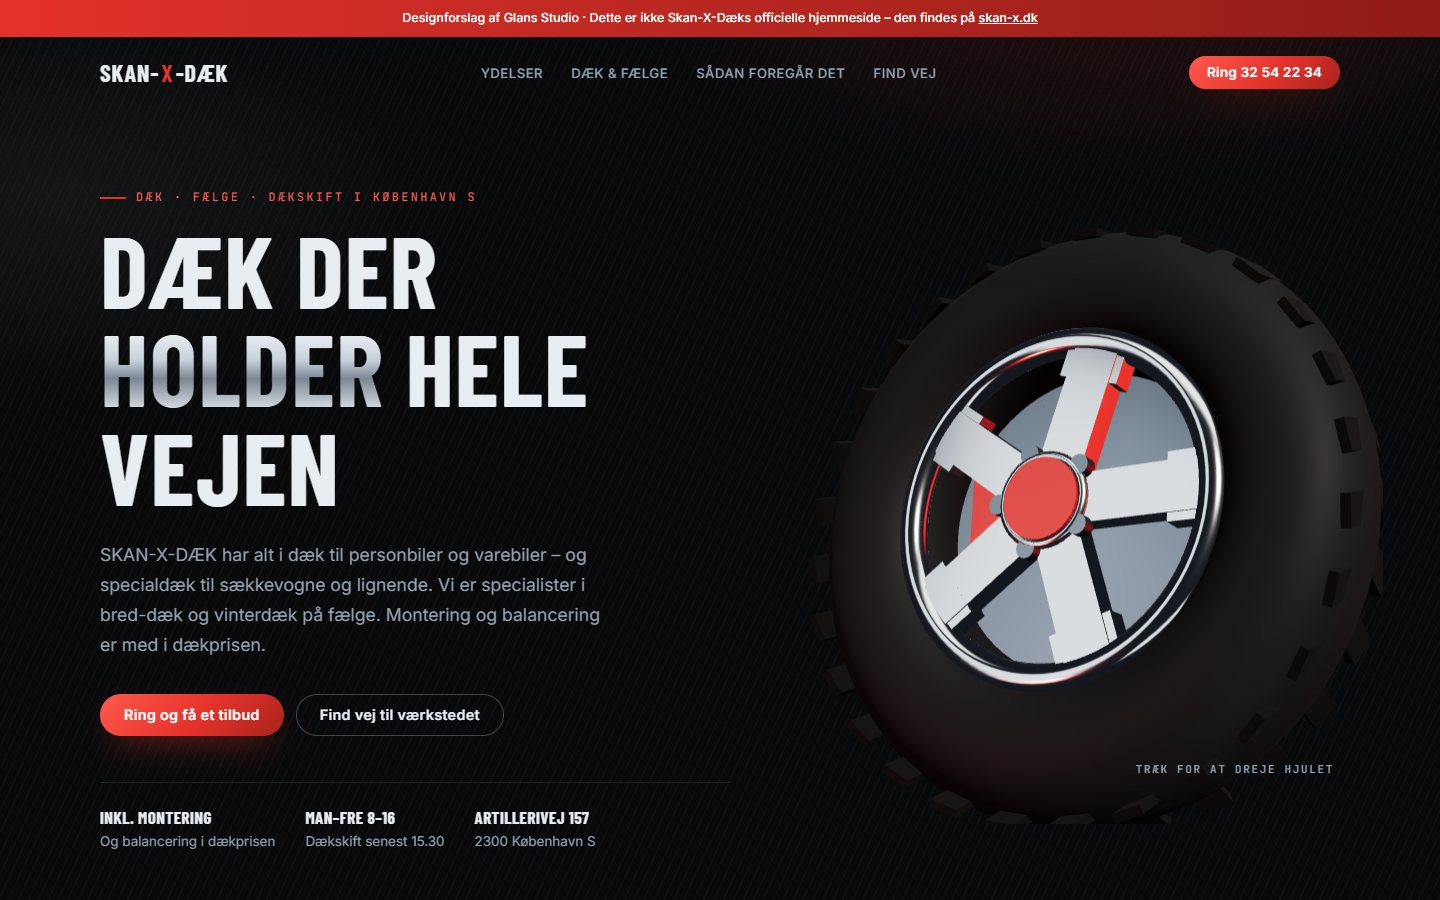
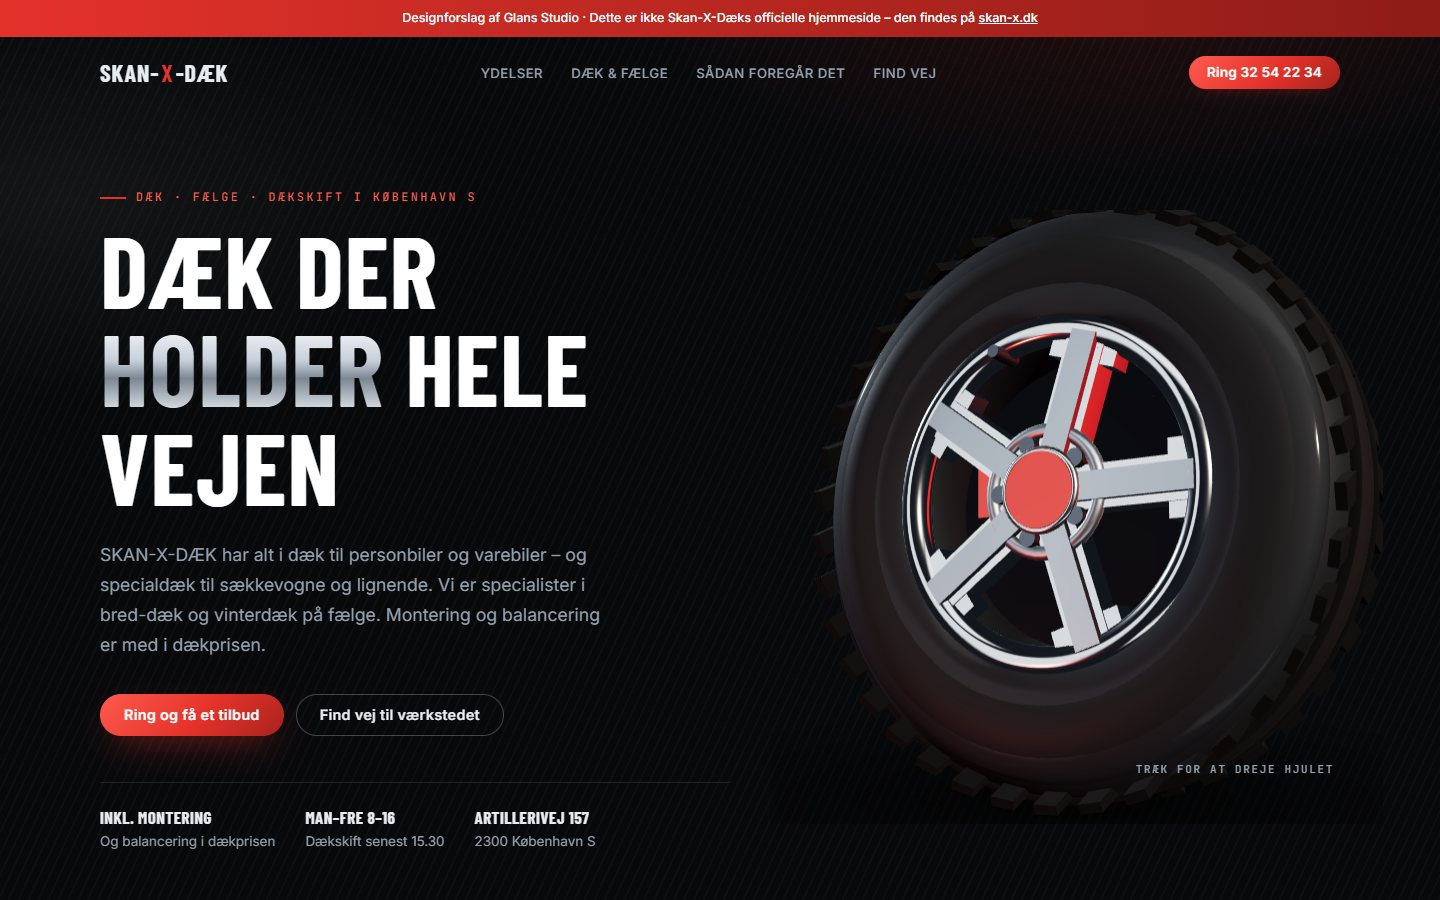
Skan-X-Dæk: storleksval, bokning och verkligare 3D
Claude-Session: https://claude.ai/code/session_01Hfab6hAnitsGBovwAp8y8N

diff --git a/sidor/skan-x-daek/index.html b/sidor/skan-x-daek/index.html
@@ -168,6 +168,42 @@
     .karta, .karta iframe { min-height: 320px; }
   }
   @media (prefers-reduced-motion: reduce) { html { scroll-behavior: auto; } .visas { opacity: 1; transform: none; transition: none; } }
+
+  /* ===== Svart, vitt och rött ===== */
+  :root { --vit: #FFFFFF; }
+  h1, h2, h3 { color: var(--vit); }
+  .sektion.ljus { background: var(--vit); color: #0B0C0E; }
+  .sektion.ljus h2, .sektion.ljus h3 { color: #0B0C0E; }
+  .sektion.ljus .huvud > p, .sektion.ljus p { color: #4A525C; }
+  .sektion.ljus .etikett { color: var(--rod); }
+  .sektion.ljus .etikett::before { background: var(--rod); }
+  .sektion.ljus .steg li { border-color: rgba(11, 12, 14, .12); background: #F4F6F8; }
+  .sektion.ljus .steg li::before { color: var(--rod); }
+  .sektion.ljus .krom-text { background: linear-gradient(180deg, #2B3037, #0B0C0E); -webkit-background-clip: text; background-clip: text; color: transparent; }
+
+  /* ===== Välj däckstorlek ===== */
+  .valj { display: grid; gap: 14px; margin: 0 0 26px; padding: 24px 26px; border: 1px solid var(--linje-stark); border-radius: var(--radie); background: linear-gradient(135deg, rgba(228, 50, 43, .12), transparent 60%), var(--panel); }
+  .valj-rad { display: flex; flex-wrap: wrap; gap: 12px; align-items: center; }
+  .valj label { font: 500 .74rem/1 var(--mono); letter-spacing: .16em; text-transform: uppercase; color: var(--dampad); }
+  .valj select { min-width: 190px; padding: 13px 16px; border: 1px solid var(--linje-stark); border-radius: 10px; background: #0B0C0E; color: var(--vit); font-family: var(--mono); }
+  .valj select:focus { border-color: var(--rod-ljus); outline: none; }
+  .valj-svar { margin: 0; font-size: .95rem; color: var(--dampad); }
+  .valj-svar b { color: var(--vit); font-family: var(--mono); font-weight: 500; }
+
+  /* ===== Boka tid ===== */
+  .bok-falt { display: grid; gap: 12px; margin-top: 4px; }
+  .bok-falt label { display: grid; gap: 6px; font-size: .84rem; color: var(--dampad); }
+  .bok-falt input, .bok-falt select { padding: 12px 14px; border: 1px solid var(--linje-stark); border-radius: 10px; background: #0B0C0E; color: var(--vit); }
+  .bok-falt input:focus, .bok-falt select:focus { border-color: var(--rod-ljus); outline: none; }
+  .bok-not { margin: 10px 0 0; font-size: .8rem; color: var(--dampad); }
+
+  @media (max-width: 600px) {
+    .valj { padding: 20px 18px; }
+    .valj select { width: 100%; }
+  }
+
+  /* Dämpat sken på menyknappen, så den inte lyser mot vita avsnitt */
+  .nav .knapp { box-shadow: 0 8px 18px -12px rgba(228, 50, 43, .55); }
 </style>
 </head>
 <body>
@@ -265,6 +301,17 @@
       </div>
       <div class="storlek-grid">
         <div class="visas">
+          <div class="valj">
+            <div class="valj-rad">
+              <label for="valjStorlek" data-edit>Vælg din dækstørrelse</label>
+              <select id="valjStorlek" aria-describedby="valjSvar">
+                <option value="">Vælg størrelse …</option>
+              </select>
+              <a class="knapp liten" id="valjRing" href="tel:+4532542234" data-edit>Ring om pris</a>
+              <a class="knapp liten spok" id="valjMail" href="mailto:karsten@skan-x-daek.dk" data-edit>Skriv efter pris</a>
+            </div>
+            <p class="valj-svar" id="valjSvar" data-edit>Vi giver pris på telefon eller mail – vælg størrelsen først, så er den skrevet ind i mailen.</p>
+          </div>
           <ul class="storlekar">
             <li>155/65 R14</li><li>165/70 R14</li><li>175/65 R14</li><li>185/60 R14</li>
             <li>185/60 R15</li><li>185/65 R14</li><li>185/65 R15</li><li>195/50 R15</li>
@@ -283,7 +330,7 @@
     </div>
   </section>
 
-  <section class="sektion mork" id="saadan">
+  <section class="sektion ljus" id="saadan">
     <div class="ram">
       <div class="huvud visas">
         <div><p class="etikett" data-edit>Sådan foregår det</p><h2 data-edit>Fra opkald til <span class="krom-text">færdigt skift</span></h2></div>
@@ -323,6 +370,17 @@
               <li><span data-edit>Dækskift senest</span><b data-edit>15.30</b></li>
               <li><span data-edit>Lørdag og søndag</span><b data-edit>Lukket</b></li>
             </ul>
+          </div>
+          <div class="info-kort visas">
+            <h3 data-edit>Book tid til dækskift</h3>
+            <div class="bok-falt">
+              <label><span data-edit>Dit navn</span><input id="bokNavn" autocomplete="name" placeholder="Navn"></label>
+              <label><span data-edit>Telefon</span><input id="bokTlf" autocomplete="tel" inputmode="tel" placeholder="Telefonnummer"></label>
+              <label><span data-edit>Dækstørrelse</span><select id="bokStorlek"><option value="">Vælg størrelse …</option></select></label>
+              <label><span data-edit>Ønsket dag</span><input id="bokDag" type="date"></label>
+              <button class="knapp" type="button" id="bokKnapp" data-edit>Send som mail</button>
+            </div>
+            <p class="bok-not" data-edit>Knappen åbner dit mailprogram med teksten færdig. Vi bekræfter tiden, når vi har set den.</p>
           </div>
           <div class="info-kort visas">
             <h3 data-edit>Kontakt</h3>
@@ -484,6 +542,61 @@
     });
   }
 
+  /* ---------- Vælg dækstørrelse og book tid (åbner mail, ingen server) ---------- */
+  const MAIL = 'karsten@skan-x-daek.dk';
+  const NL = String.fromCharCode(10);
+
+  const storlekar = () => $$('.storlekar li').map(li => li.textContent.trim()).filter(Boolean);
+
+  function fyllValjare() {
+    const lista = storlekar();
+    ['#valjStorlek', '#bokStorlek'].forEach(sel => {
+      const falt = $(sel);
+      if (!falt) return;
+      lista.forEach(s => {
+        const val = document.createElement('option');
+        val.value = s;
+        val.textContent = s;
+        falt.appendChild(val);
+      });
+    });
+  }
+
+  const mailto = (amne, rader) => 'mailto:' + MAIL + '?subject=' + encodeURIComponent(amne) + '&body=' + encodeURIComponent(rader.join(NL));
+
+  function initValj() {
+    const falt = $('#valjStorlek'), mail = $('#valjMail'), svar = $('#valjSvar');
+    if (!falt) return;
+    const grund = svar.textContent;
+    falt.addEventListener('change', () => {
+      const s = falt.value;
+      if (!s) {
+        mail.setAttribute('href', 'mailto:' + MAIL);
+        svar.textContent = grund;
+        return;
+      }
+      mail.setAttribute('href', mailto('Pris på dæk ' + s,
+        ['Hej Skan-X-Dæk', '', 'Jeg vil gerne have pris på dæk i størrelsen ' + s + '.', '', 'Bil:', 'Telefon:', '', 'Venlig hilsen', '']));
+      svar.innerHTML = 'Valgt størrelse: <b>' + s + '</b>. Ring, eller skriv – størrelsen står allerede i mailen.';
+    });
+  }
+
+  function initBokning() {
+    const knapp = $('#bokKnapp');
+    if (!knapp) return;
+    knapp.addEventListener('click', () => {
+      if (redigerar()) return;
+      const namn = $('#bokNavn').value.trim(), tlf = $('#bokTlf').value.trim();
+      const storlek = $('#bokStorlek').value, dag = $('#bokDag').value;
+      if (!namn || !tlf) { visaToast('Skriv navn og telefonnummer, så er mailen klar.'); return; }
+      window.location.href = mailto('Booking af dækskift – ' + namn,
+        ['Hej Skan-X-Dæk', '', 'Jeg vil gerne booke tid til dækskift.', '',
+         'Navn: ' + namn, 'Telefon: ' + tlf, 'Dækstørrelse: ' + (storlek || 'ved ikke'),
+         'Ønsket dag: ' + (dag || 'så hurtigt som muligt'), '', 'Venlig hilsen', namn, '']);
+      visaToast('Dit mailprogram åbner med teksten færdig.');
+    });
+  }
+
   /* ---------- 3D: hjul och fälg (three.js från jsDelivr) ---------- */
   let threeLofte = null;
   const laddaThree = () => (threeLofte = threeLofte || import(THREE_URL));
@@ -500,85 +613,112 @@
     pm.dispose();
   }
 
-  // Bygger ett hjul: gummidäck med mönster i ytan, blank kromfälg med ekrar, bromsskiva och rött ok
+  // Bygger ett hjul: däck med sidovägg och djupt mönster, kromfälg med fasade ekrar,
+  // borrad bromsskiva, rött ok och ventil
   function byggHjul(THREE, meddack) {
     const hjul = new THREE.Group();
-    const krom = new THREE.MeshPhysicalMaterial({ color: 0xf4f7fa, metalness: 1, roughness: 0.11, clearcoat: 1, clearcoatRoughness: 0.05 });
-    const morkKrom = new THREE.MeshPhysicalMaterial({ color: 0x9aa4ae, metalness: 1, roughness: 0.3 });
-    const gummi = new THREE.MeshPhysicalMaterial({ color: 0x121519, metalness: 0.05, roughness: 0.85, clearcoat: 0.2, clearcoatRoughness: 0.55 });
-    const monster = new THREE.MeshPhysicalMaterial({ color: 0x080a0c, metalness: 0.04, roughness: 0.95 });
-    const rod = new THREE.MeshPhysicalMaterial({ color: 0xe4322b, metalness: 0.4, roughness: 0.3, clearcoat: 0.9 });
-    const R = 1.58, T = 0.5;
+    const krom = new THREE.MeshPhysicalMaterial({ color: 0xf6f8fb, metalness: 1, roughness: 0.09, clearcoat: 1, clearcoatRoughness: 0.04 });
+    const borstad = new THREE.MeshPhysicalMaterial({ color: 0xc8d0d8, metalness: 1, roughness: 0.32 });
+    const morkKrom = new THREE.MeshPhysicalMaterial({ color: 0x79828c, metalness: 1, roughness: 0.36 });
+    const gummi = new THREE.MeshPhysicalMaterial({ color: 0x14171b, metalness: 0.02, roughness: 0.82, clearcoat: 0.3, clearcoatRoughness: 0.5 });
+    const gummiMork = new THREE.MeshPhysicalMaterial({ color: 0x07080a, metalness: 0.02, roughness: 0.96 });
+    const sidovagg = new THREE.MeshPhysicalMaterial({ color: 0x1b1f24, metalness: 0.02, roughness: 0.7, clearcoat: 0.4 });
+    const rod = new THREE.MeshPhysicalMaterial({ color: 0xe4322b, metalness: 0.35, roughness: 0.26, clearcoat: 1 });
+    const R = 1.56, T = 0.52;
 
     if (meddack) {
-      hjul.add(new THREE.Mesh(new THREE.TorusGeometry(R, T, 26, 120), gummi));
-      // Mönsterspår som ligger i däckets yta, inte utanpå
-      const spar = new THREE.InstancedMesh(new THREE.BoxGeometry(0.06, 0.2, 0.46), monster, 56);
-      const m4 = new THREE.Matrix4(), pos = new THREE.Vector3(), q = new THREE.Quaternion(), e = new THREE.Euler(), sk = new THREE.Vector3(1, 1, 1);
-      for (let i = 0; i < 56; i++) {
-        const v = (i / 56) * Math.PI * 2;
-        pos.set(Math.cos(v) * (R + T - 0.07), Math.sin(v) * (R + T - 0.07), (i % 2 ? 0.21 : -0.21));
-        // Snedställda spår ger ett mönster i stället för kuggar
-        e.set(i % 2 ? 0.34 : -0.34, 0, v);
-        spar.setMatrixAt(i, m4.compose(pos, q.setFromEuler(e), sk));
-      }
-      hjul.add(spar);
-      // Två tunna spår runt hela däcket
-      [0.13, -0.13].forEach(z => {
-        const ring = new THREE.Mesh(new THREE.TorusGeometry(R + T - 0.06, 0.035, 10, 120), monster);
-        ring.position.z = z;
-        hjul.add(ring);
+      hjul.add(new THREE.Mesh(new THREE.TorusGeometry(R, T, 40, 150), gummi));
+      // Sidoväggar med en svag ring, som på ett riktigt däck
+      [0.34, -0.34].forEach(z => {
+        const vagg = new THREE.Mesh(new THREE.TorusGeometry(R - 0.02, 0.4, 24, 120), sidovagg);
+        vagg.scale.z = 0.42;
+        vagg.position.z = z;
+        hjul.add(vagg);
+        const ribba = new THREE.Mesh(new THREE.TorusGeometry(R + 0.12, 0.035, 12, 130), gummiMork);
+        ribba.position.z = z * 0.72;
+        hjul.add(ribba);
       });
-      // Blank kant mot fälgen
-      const kant = new THREE.Mesh(new THREE.TorusGeometry(1.2, 0.07, 14, 90), morkKrom);
-      kant.position.z = 0.3;
-      hjul.add(kant);
+      // Mönster: två spårrader och snedställda klackar
+      [0.2, -0.2].forEach(z => {
+        const spar = new THREE.Mesh(new THREE.TorusGeometry(R + T - 0.045, 0.045, 12, 140), gummiMork);
+        spar.position.z = z;
+        hjul.add(spar);
+      });
+      const mitt = new THREE.Mesh(new THREE.TorusGeometry(R + T - 0.05, 0.05, 12, 140), gummiMork);
+      hjul.add(mitt);
+      const klack = new THREE.InstancedMesh(new THREE.BoxGeometry(0.07, 0.17, 0.3), gummiMork, 76);
+      const m4 = new THREE.Matrix4(), pos = new THREE.Vector3(), q = new THREE.Quaternion(), e = new THREE.Euler(), sk = new THREE.Vector3(1, 1, 1);
+      for (let i = 0; i < 76; i++) {
+        const v = (i / 38) * Math.PI, rad = i % 2 ? 0.31 : -0.31;
+        pos.set(Math.cos(v) * (R + T - 0.06), Math.sin(v) * (R + T - 0.06), rad);
+        e.set(i % 2 ? 0.42 : -0.42, 0, v);
+        klack.setMatrixAt(i, m4.compose(pos, q.setFromEuler(e), sk));
+      }
+      hjul.add(klack);
+      // Ventil
+      const ventil = new THREE.Mesh(new THREE.CylinderGeometry(0.045, 0.055, 0.26, 14), morkKrom);
+      ventil.position.set(Math.cos(1.9) * 1.06, Math.sin(1.9) * 1.06, 0.42);
+      ventil.rotation.set(Math.PI / 2, 0, 0);
+      hjul.add(ventil);
     }
 
-    // Fälgens läpp och skål
-    const lapp = new THREE.Mesh(new THREE.TorusGeometry(1.16, 0.1, 16, 90), krom);
-    lapp.position.z = 0.32;
+    // Fälg: läpp, skål, botten och en borstad ring i mitten
+    const lapp = new THREE.Mesh(new THREE.TorusGeometry(1.14, 0.11, 20, 110), krom);
+    lapp.position.z = 0.36;
     hjul.add(lapp);
-    const skal = new THREE.Mesh(new THREE.CylinderGeometry(1.16, 1.06, 0.62, 64, 1, true), krom);
+    const skal = new THREE.Mesh(new THREE.CylinderGeometry(1.14, 1.02, 0.66, 72, 1, true), krom);
     skal.rotation.x = Math.PI / 2;
-    skal.position.z = 0.02;
+    skal.position.z = 0.03;
     hjul.add(skal);
-    const botten = new THREE.Mesh(new THREE.CircleGeometry(1.12, 64), morkKrom);
-    botten.position.z = -0.12;
+    const botten = new THREE.Mesh(new THREE.CircleGeometry(1.1, 72), new THREE.MeshPhysicalMaterial({ color: 0x1b2027, metalness: 0.7, roughness: 0.55 }));
+    botten.position.z = -0.14;
     hjul.add(botten);
 
-    // Fem breda ekrar från navet ut mot läppen
+    // Fem ekrar med fasade kanter
     for (let i = 0; i < 5; i++) {
       const v = (i / 5) * Math.PI * 2;
-      const eker = new THREE.Mesh(new THREE.BoxGeometry(0.34, 0.92, 0.18), krom);
-      eker.position.set(Math.cos(v) * 0.68, Math.sin(v) * 0.68, 0.3);
+      const eker = new THREE.Group();
+      const kropp = new THREE.Mesh(new THREE.BoxGeometry(0.3, 1.0, 0.2), krom);
+      const fas = new THREE.Mesh(new THREE.BoxGeometry(0.19, 1.02, 0.1), borstad);
+      fas.position.z = 0.1;
+      const bred = new THREE.Mesh(new THREE.BoxGeometry(0.52, 0.28, 0.18), krom);
+      bred.position.y = 0.45;
+      eker.add(kropp, fas, bred);
+      eker.position.set(Math.cos(v) * 0.6, Math.sin(v) * 0.6, 0.33);
       eker.rotation.z = v - Math.PI / 2;
       hjul.add(eker);
-      const fot = new THREE.Mesh(new THREE.BoxGeometry(0.46, 0.3, 0.16), krom);
-      fot.position.set(Math.cos(v) * 1.02, Math.sin(v) * 1.02, 0.3);
-      fot.rotation.z = v - Math.PI / 2;
-      hjul.add(fot);
-      const bult = new THREE.Mesh(new THREE.CylinderGeometry(0.07, 0.07, 0.1, 16), morkKrom);
+      const bult = new THREE.Mesh(new THREE.CylinderGeometry(0.062, 0.062, 0.09, 18), morkKrom);
       bult.rotation.x = Math.PI / 2;
-      bult.position.set(Math.cos(v + 0.63) * 0.34, Math.sin(v + 0.63) * 0.34, 0.42);
+      bult.position.set(Math.cos(v + 0.63) * 0.33, Math.sin(v + 0.63) * 0.33, 0.45);
       hjul.add(bult);
     }
-    // Navkapsel
-    const nav = new THREE.Mesh(new THREE.CylinderGeometry(0.28, 0.28, 0.14, 36), rod);
-    nav.rotation.x = Math.PI / 2;
-    nav.position.z = 0.42;
-    hjul.add(nav);
-    const navring = new THREE.Mesh(new THREE.TorusGeometry(0.3, 0.035, 12, 36), krom);
-    navring.position.z = 0.44;
+    const navring = new THREE.Mesh(new THREE.TorusGeometry(0.42, 0.05, 16, 44), borstad);
+    navring.position.z = 0.42;
     hjul.add(navring);
+    const nav = new THREE.Mesh(new THREE.CylinderGeometry(0.26, 0.26, 0.12, 40), rod);
+    nav.rotation.x = Math.PI / 2;
+    nav.position.z = 0.46;
+    hjul.add(nav);
+    const navkant = new THREE.Mesh(new THREE.TorusGeometry(0.27, 0.03, 12, 40), krom);
+    navkant.position.z = 0.49;
+    hjul.add(navkant);
 
     if (meddack) {
-      const brom = new THREE.Mesh(new THREE.CylinderGeometry(0.92, 0.92, 0.06, 48), morkKrom);
-      brom.rotation.x = Math.PI / 2;
-      brom.position.z = -0.2;
-      hjul.add(brom);
-      const ok = new THREE.Mesh(new THREE.BoxGeometry(0.3, 0.62, 0.24), rod);
-      ok.position.set(-0.8, 0.22, -0.2);
+      // Bromsskiva med borrade hål och rött ok
+      const skiva = new THREE.Mesh(new THREE.CylinderGeometry(0.9, 0.9, 0.05, 60), borstad);
+      skiva.rotation.x = Math.PI / 2;
+      skiva.position.z = -0.24;
+      hjul.add(skiva);
+      const hal = new THREE.InstancedMesh(new THREE.CylinderGeometry(0.052, 0.052, 0.08, 12), gummiMork, 30);
+      const m = new THREE.Matrix4(), pp = new THREE.Vector3(), qq = new THREE.Quaternion().setFromEuler(new THREE.Euler(Math.PI / 2, 0, 0)), ss = new THREE.Vector3(1, 1, 1);
+      for (let i = 0; i < 30; i++) {
+        const v = (i / 10) * Math.PI * 2 * 0.3334, r = i % 3 === 0 ? 0.74 : (i % 3 === 1 ? 0.62 : 0.5);
+        pp.set(Math.cos(v + i * 0.21) * r, Math.sin(v + i * 0.21) * r, -0.24);
+        hal.setMatrixAt(i, m.compose(pp, qq, ss));
+      }
+      hjul.add(hal);
+      const ok = new THREE.Mesh(new THREE.BoxGeometry(0.26, 0.6, 0.3), rod);
+      ok.position.set(-0.78, 0.26, -0.24);
       hjul.add(ok);
     }
     return hjul;
@@ -607,18 +747,41 @@
     renderer.setPixelRatio(Math.min(window.devicePixelRatio || 1, 2));
     renderer.outputColorSpace = THREE.SRGBColorSpace;
     renderer.toneMapping = THREE.ACESFilmicToneMapping;
-    renderer.toneMappingExposure = meddack ? 1.15 : 1.25;
+    renderer.toneMappingExposure = meddack ? 1.08 : 1.06;
     const scen = new THREE.Scene();
     studio(THREE, renderer, scen);
     const kamera = new THREE.PerspectiveCamera(32, 1, 0.1, 100);
     kamera.position.set(0, 0, meddack ? 7.4 : 5.6);
     scen.add(new THREE.AmbientLight(0xffffff, 0.5));
-    const ljus = new THREE.DirectionalLight(0xfff4e8, 3);
+    const ljus = new THREE.DirectionalLight(0xfff4e8, meddack ? 3 : 2.5);
     ljus.position.set(4, 5, 7);
     scen.add(ljus);
-    const rodLjus = new THREE.PointLight(0xe4322b, 18, 16);
+    const rodLjus = new THREE.PointLight(0xe4322b, meddack ? 22 : 10, 18);
     rodLjus.position.set(-4, -2, 3);
     scen.add(rodLjus);
+    const kantljus = new THREE.DirectionalLight(0xdff0ff, 1.5);
+    kantljus.position.set(-6, 2, -5);
+    scen.add(kantljus);
+
+    if (meddack) {
+      // Mjuk kontaktskugga på golvet, så hjulet inte svävar
+      const c = document.createElement('canvas');
+      c.width = c.height = 256;
+      const g = c.getContext('2d');
+      const grad = g.createRadialGradient(128, 128, 6, 128, 128, 126);
+      grad.addColorStop(0, 'rgba(0,0,0,.75)');
+      grad.addColorStop(0.45, 'rgba(0,0,0,.35)');
+      grad.addColorStop(1, 'rgba(0,0,0,0)');
+      g.fillStyle = grad;
+      g.fillRect(0, 0, 256, 256);
+      const skugga = new THREE.Mesh(new THREE.PlaneGeometry(7.5, 4.2),
+        new THREE.MeshBasicMaterial({ map: new THREE.CanvasTexture(c), transparent: true, depthWrite: false }));
+      skugga.rotation.x = -Math.PI / 2;
+      skugga.position.set(0, -2.16, 0.1);
+      scen.add(skugga);
+      kamera.position.set(0, 1.05, 7.5);
+      kamera.lookAt(0, -0.12, 0);
+    }
 
     const hjul = byggHjul(THREE, meddack);
     hjul.rotation.x = meddack ? -0.3 : -0.34;
@@ -665,6 +828,9 @@
   /* ---------- Start ---------- */
   aterstallSparat();
   initNavigering();
+  fyllValjare();
+  initValj();
+  initBokning();
   initRedigering();
   initScen('scenHjul', true);
   initScen('scenFalg', false);
